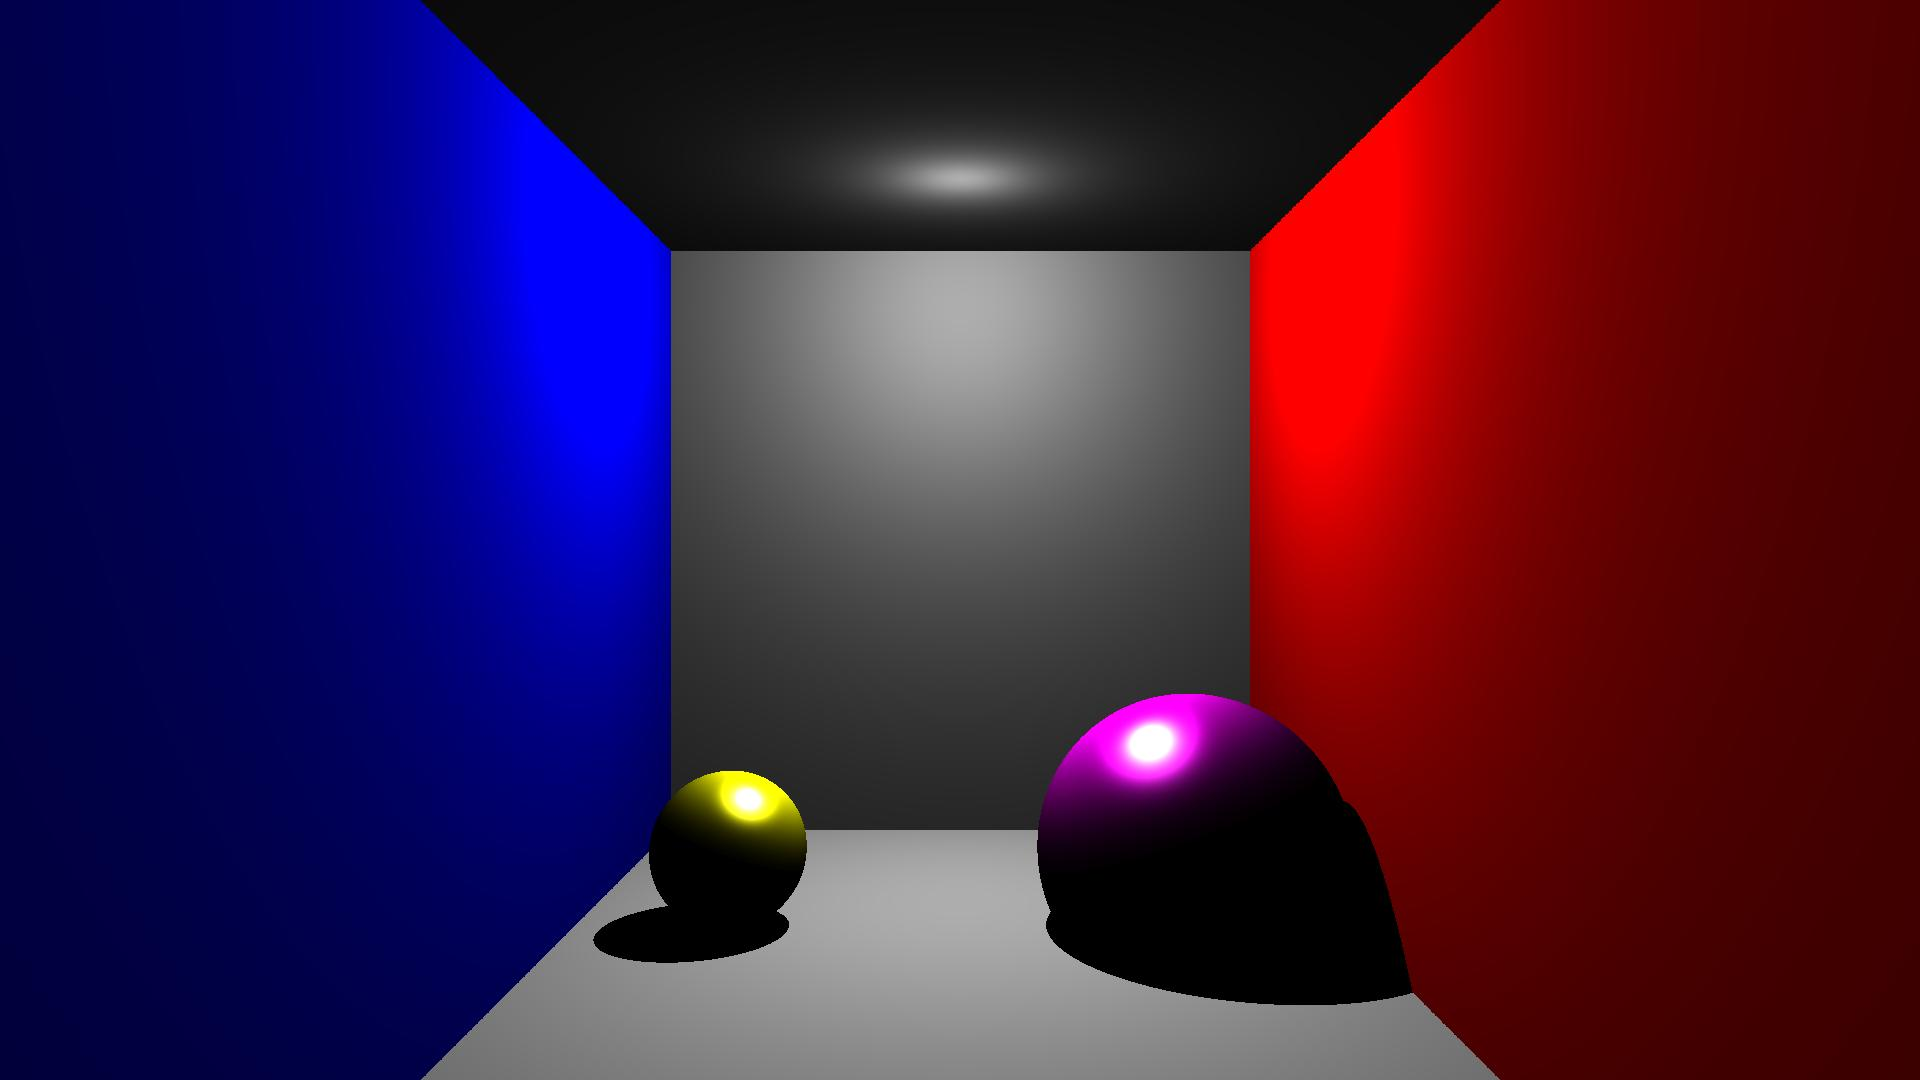
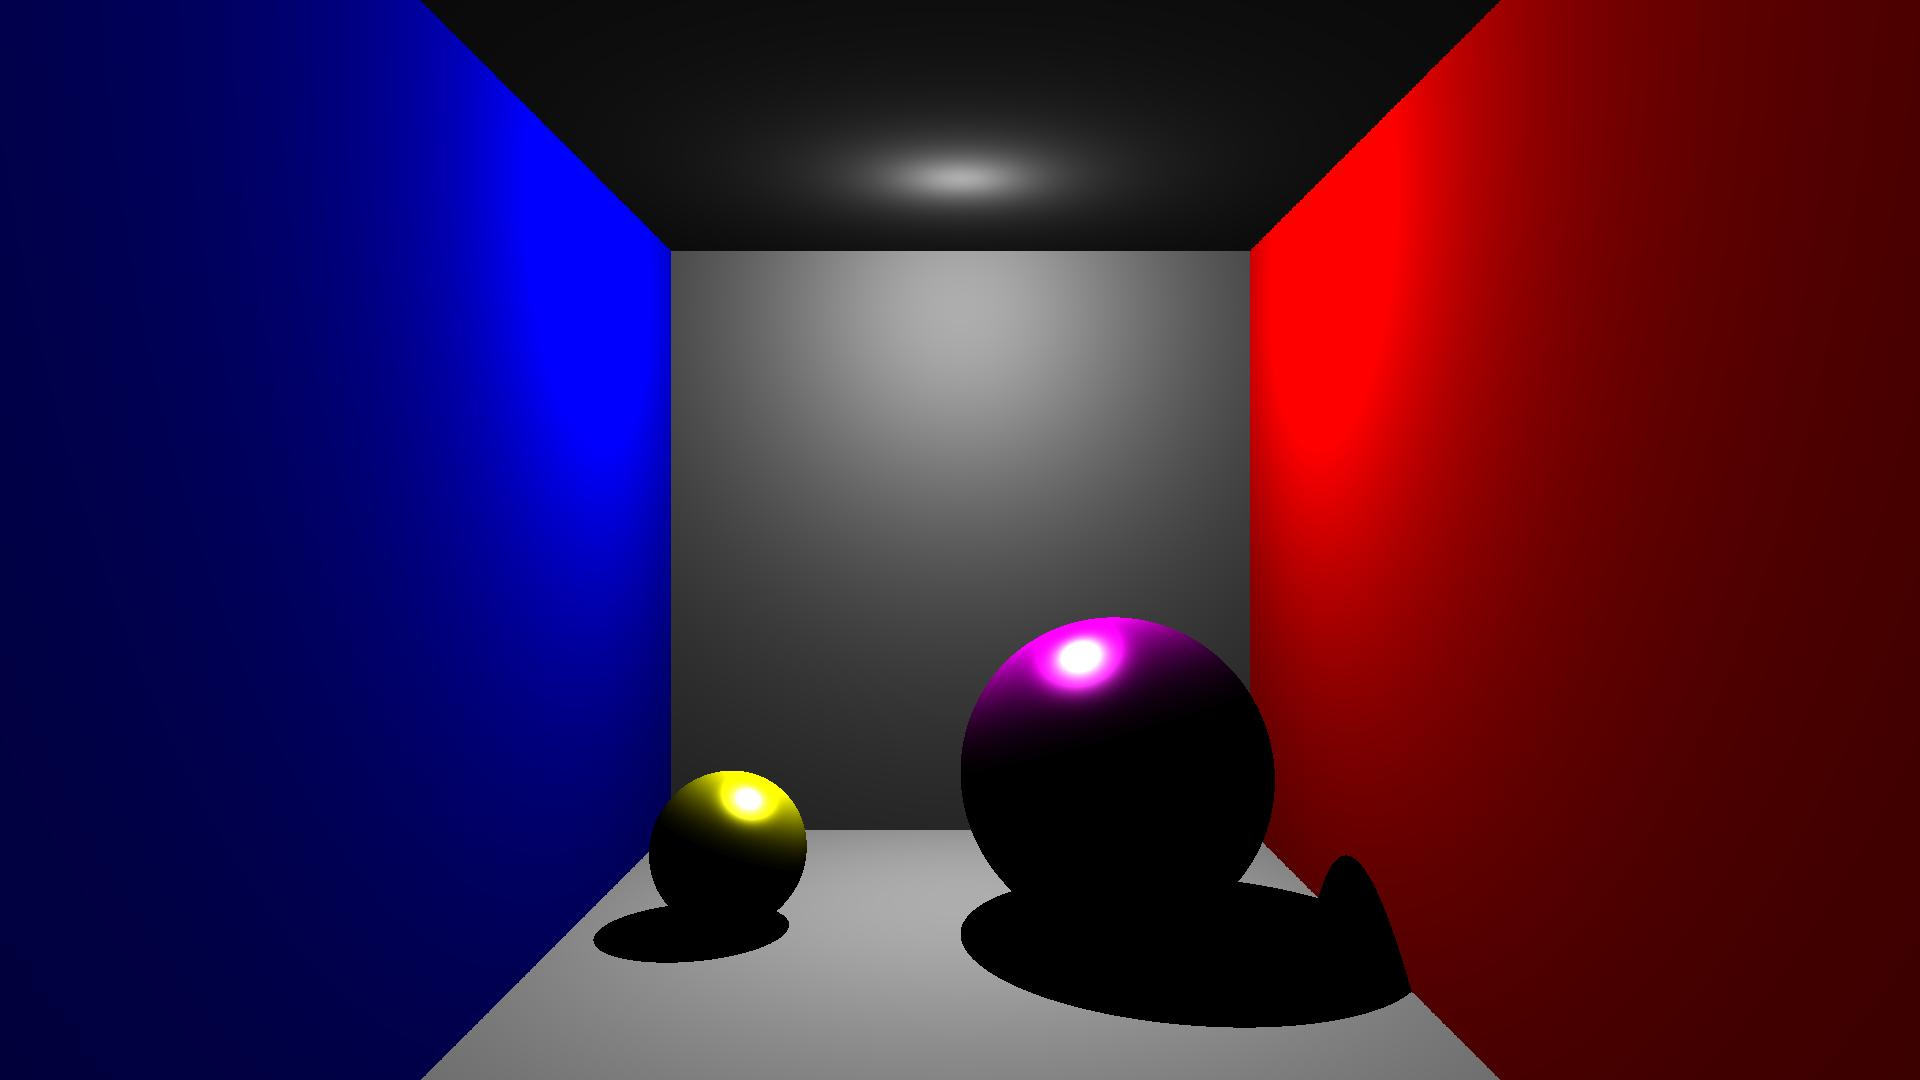
Forgot to add files to prev commit

Changed region(s): [[0.5, 0.55, 0.7188, 0.9778], [0.7188, 0.825, 0.75, 0.8861]]

diff --git a/scene.py b/scene.py
@@ -4,6 +4,7 @@ from shape import Shape
 from point_light import PointLight
 from vector_helpers import normalize
 from color import Color
+from constants import EPS
 
 from typing import List
 
@@ -12,8 +13,9 @@ import numpy as np
 class Scene:
     shapes: List[Shape]
     
-    def __init__(self, max_depth = 2):
+    def __init__(self, max_depth = 1, shadow_brightness = 0.0):
         self.max_depth = max_depth
+        self.shadow_brightness = shadow_brightness
         self.shapes = []
 
     def add_shape(self, shape: Shape):
@@ -22,17 +24,40 @@ class Scene:
     def add_light_source(self, light_source: PointLight):
         self.light_source = light_source
 
-    def cast_ray(self, ray: Ray, shadow_brightness=0.1, depth=0) -> Color:
-        nearest_intersection = self.nearest_intersection(ray)
-        if nearest_intersection is None:
-            return None
+    def cast_ray(self, ray: Ray) -> Color:
+        # nearest_intersection = self.nearest_intersection(ray)
+        # if nearest_intersection is None:
+        #     return None
 
-        illumination = np.array([shadow_brightness, shadow_brightness, shadow_brightness])
-        if self.check_light(nearest_intersection):
-            illumination = self.calculate_illumination(ray, nearest_intersection)
-        
+        # illumination = np.array([self.shadow_brightness, self.shadow_brightness, self.shadow_brightness])
+        # if self.check_light(nearest_intersection):
+        #     illumination = self.calculate_illumination(ray, nearest_intersection)
+
+        illumination = self.sum_illumination(ray)
+
         color = Color.from_array(np.clip(illumination, 0.0, 1.0))
         return color
+
+    def sum_illumination(self, ray: Ray, depth=0):
+        nearest_intersection = self.nearest_intersection(ray)
+        if nearest_intersection is None:
+            return np.zeros((3))
+
+        reflection = 0.0
+
+        if depth != 0:
+            reflection = nearest_intersection.material().reflection
+
+        illumination = np.array([self.shadow_brightness, self.shadow_brightness, self.shadow_brightness])
+        if self.check_light(nearest_intersection):
+            illumination = self.calculate_illumination(ray, nearest_intersection)
+
+        if (depth == self.max_depth) or (reflection < EPS):
+            return illumination
+
+
+        reflected_ray = self.reflected(ray, nearest_intersection)
+        return illumination + reflection * self.sum_illumination(reflected_ray, depth + 1)
 
     def nearest_intersection(self, ray: Ray):
         intersection = Intersection(ray)
@@ -87,7 +112,7 @@ class Scene:
         illumination = ambient + diffuse + specular
         return illumination
 
-    def reflected(ray: Ray, intersection: Intersection):
+    def reflected(self, ray: Ray, intersection: Intersection):
         reflected_ray_origin = intersection.position()
         normal = intersection.normal()
         reflected_ray_direction = ray.direction - 2 * np.dot(ray.direction, normal) * normal

diff --git a/main.py b/main.py
@@ -38,8 +38,8 @@ scene.add_shape(roof)
 
 sphere_material = Material(Color.yellow(0.1), Color.yellow(0.7), Color.gray(1.0))
 sphere = Sphere(np.array([3.0, 1.0, 5.0]), 1.0, sphere_material)
-reflecting_material = Material(Color.purple(0.1), Color.purple(0.7), Color.gray(1.0), 100.0, 0.5)
-reflecting_sphere = Sphere(np.array([-2.0, 1.0, 5.0]), 2.0, reflecting_material)
+reflecting_material = Material(Color.purple(0.1), Color.purple(0.7), Color.gray(1.0), 100.0, 0.9)
+reflecting_sphere = Sphere(np.array([-2.0, 2.0, 5.0]), 2.0, reflecting_material)
 
 scene.add_shape(sphere)
 scene.add_shape(reflecting_sphere)
